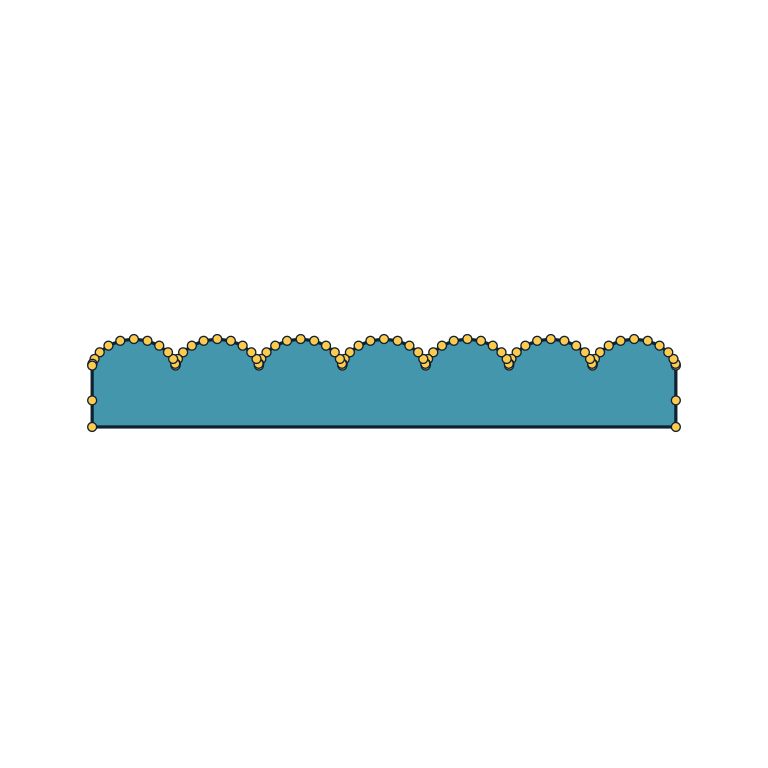
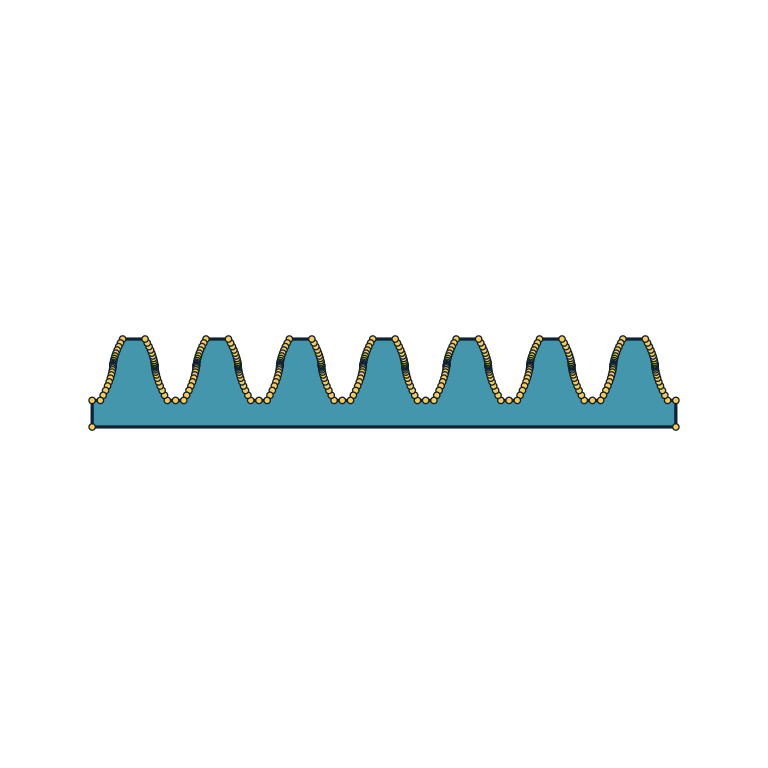
Correct cycloidal racks and Hershey orientation

Changed region(s): [[0.0938, 0.4375, 0.9062, 0.5625]]

diff --git a/src/curve/native.rs b/src/curve/native.rs
@@ -992,6 +992,14 @@ pub fn involute_rack(
 }
 
 /// Linear cycloidal rack region.
+///
+/// Each tooth joins an addendum cycloid above the pitch line to a dedendum
+/// cycloid below it on both sides. Each rolling radius is twice its
+/// corresponding standard height, so every sampled flank spans one sixth turn
+/// and meets a horizontal tip or root land.
+///
+/// Returns an empty region when the requested clearance would close the root
+/// land between neighboring teeth.
 pub fn cycloidal_rack(
     module: Real,
     teeth: usize,
@@ -1005,54 +1013,107 @@ pub fn cycloidal_rack(
     {
         return empty();
     }
-    let half = (Real::one() / Real::from(2_u8)).expect("two is nonzero");
-    let generating_radius = module.clone() * half.clone();
+    let two = Real::from(2_u8);
+    let three = Real::from(3_u8);
+    let four = Real::from(4_u8);
     let pitch = Real::pi() * module.clone();
-    let root = -(module.clone()
-        * (Real::from(5_u8) / Real::from(4_u8)).expect("four is nonzero")
-        + clearance);
-    let left = -half.clone() * pitch.clone();
-    let right = (Real::from(teeth as u64) - half.clone()) * pitch.clone();
-    let Some(lobe_capacity) = segments_per_flank.checked_add(1) else {
+    let half_pitch = (pitch.clone() / two.clone()).expect("two is nonzero");
+    let quarter_pitch = (pitch.clone() / four.clone()).expect("four is nonzero");
+    let dedendum =
+        module.clone() * (Real::from(5_u8) / four).expect("four is nonzero") + clearance;
+    let root = -dedendum.clone();
+    let flank_sweep = (Real::pi() / three).expect("three is nonzero");
+    let run_factor = two.clone() * (flank_sweep.clone() - flank_sweep.clone().sin());
+    let face_run = module.clone() * run_factor.clone();
+    let root_run = dedendum.clone() * run_factor;
+    if real_cmp(&face_run, &quarter_pitch) != Some(Ordering::Less)
+        || real_cmp(&root_run, &quarter_pitch) != Some(Ordering::Less)
+    {
+        return empty();
+    }
+
+    let Some(sample_capacity) = segments_per_flank.checked_add(1) else {
         return empty();
     };
-    let mut lobe = Vec::with_capacity(lobe_capacity);
+    let mut unit_flank = Vec::with_capacity(sample_capacity);
     for sample in 0..=segments_per_flank {
         let Some(fraction) = exact_ratio(sample, segments_per_flank) else {
             return empty();
         };
-        let theta = Real::tau() * fraction;
-        lobe.push([
-            generating_radius.clone() * (theta.clone() - theta.clone().sin()),
-            generating_radius.clone() * (Real::one() - theta.cos()),
+        let theta = flank_sweep.clone() * fraction;
+        unit_flank.push([
+            two.clone() * (theta.clone() - theta.clone().sin()),
+            two.clone() * (Real::one() - theta.cos()),
         ]);
     }
+
+    let Some(tooth_capacity) = segments_per_flank
+        .checked_mul(4)
+        .and_then(|count| count.checked_add(4))
+    else {
+        return empty();
+    };
+    let mut tooth_points = Vec::with_capacity(tooth_capacity);
+    tooth_points.push([-half_pitch.clone(), root.clone()]);
+    tooth_points.extend(unit_flank.iter().rev().map(|[run, rise]| {
+        [
+            -quarter_pitch.clone() - dedendum.clone() * run.clone(),
+            -(dedendum.clone() * rise.clone()),
+        ]
+    }));
+    tooth_points.extend(unit_flank.iter().skip(1).map(|[run, rise]| {
+        [
+            -quarter_pitch.clone() + module.clone() * run.clone(),
+            module.clone() * rise.clone(),
+        ]
+    }));
+    tooth_points.push([quarter_pitch.clone() - face_run, module.clone()]);
+    tooth_points.extend(
+        unit_flank[..segments_per_flank]
+            .iter()
+            .rev()
+            .map(|[run, rise]| {
+                [
+                    quarter_pitch.clone() - module.clone() * run.clone(),
+                    module.clone() * rise.clone(),
+                ]
+            }),
+    );
+    tooth_points.extend(unit_flank.iter().skip(1).map(|[run, rise]| {
+        [
+            quarter_pitch.clone() + dedendum.clone() * run.clone(),
+            -(dedendum.clone() * rise.clone()),
+        ]
+    }));
+    tooth_points.push([half_pitch.clone(), root.clone()]);
+
     let Some(top_capacity) = teeth
-        .checked_mul(segments_per_flank)
+        .checked_mul(tooth_points.len().saturating_sub(1))
         .and_then(|count| count.checked_add(1))
     else {
         return empty();
     };
     let mut top = Vec::with_capacity(top_capacity);
     for tooth in 0..teeth {
-        let tooth_left = (Real::from(tooth as u64) - half.clone()) * pitch.clone();
-        for (sample, point) in lobe.iter().enumerate() {
-            if tooth > 0 && sample == 0 {
+        let offset = Real::from(tooth as u64) * pitch.clone();
+        for (point_index, point) in tooth_points.iter().enumerate() {
+            if tooth > 0 && point_index == 0 {
                 continue;
             }
-            top.push([tooth_left.clone() + point[0].clone(), point[1].clone()]);
+            top.push([offset.clone() + point[0].clone(), point[1].clone()]);
         }
     }
-    let Some(point_capacity) = top.len().checked_add(4) else {
+
+    let Some(point_capacity) = top.len().checked_add(2) else {
         return empty();
     };
     let mut points = Vec::with_capacity(point_capacity);
     let backing = root.clone() - module;
-    points.push([left.clone(), backing.clone()]);
-    points.push([right.clone(), backing]);
-    points.push([right, root.clone()]);
+    let left = top.first().expect("validated rack has a left root")[0].clone();
+    let right = top.last().expect("validated rack has a right root")[0].clone();
+    points.push([left, backing.clone()]);
+    points.push([right, backing]);
     points.extend(top.into_iter().rev());
-    points.push([left, root]);
     region_from_ring(&points)
 }
 
@@ -2431,14 +2492,34 @@ pub fn truetype_text(text: &str, font_data: &[u8], scale: Real) -> CurveRegion2 
     super::truetype::text_region(text, font_data, scale)
 }
 
-/// Hershey stroke geometry as native open curve strings.
+/// Hershey stroke geometry as native open curve strings in Cartesian coordinates.
+///
+/// Hershey's source records use screen-style coordinates with positive Y
+/// pointing down. The returned geometry reflects that axis so positive Y
+/// points up, consistently with the rest of the planar curve API.
 #[cfg(feature = "hershey-text")]
 pub fn hershey_strings(
     text: &str,
     font: &hypercurve::hershey::Font<'_>,
     size: Real,
 ) -> Vec<CurveString2> {
+    let source_to_cartesian = hypercurve::Similarity2::try_from_real_affine(
+        Real::one(),
+        Real::zero(),
+        Real::zero(),
+        -Real::one(),
+        Real::zero(),
+        Real::zero(),
+    )
+    .expect("Y reflection is a nonsingular exact similarity");
     hypercurve::hershey::strings(text, font, size)
+        .into_iter()
+        .map(|string| {
+            string
+                .transform_similarity(&source_to_cartesian)
+                .expect("Hershey line strings remain valid under Y reflection")
+        })
+        .collect()
 }
 
 /// Convenience CSG and construction operations on native filled regions.
@@ -3063,6 +3144,47 @@ mod tests {
     }
 
     #[test]
+    fn cycloidal_rack_alternates_face_and_root_flanks() {
+        let teeth = 4;
+        let tip = Real::one();
+        let pitch_line = Real::zero();
+        let root = -(Real::from(5_u8) / Real::from(4_u8)).expect("four is nonzero");
+        let rack = cycloidal_rack(Real::one(), teeth, Real::zero(), 8);
+        let paths = match rack
+            .project_to_finite_curve_paths(&CurvePolicy::STRICT)
+            .expect("cycloidal rack edge projection")
+        {
+            Classification::Decided(paths) => paths,
+            Classification::Uncertain(reason) => {
+                panic!("cycloidal rack edge topology is uncertain: {reason:?}")
+            },
+        };
+        assert_eq!(paths.len(), 1, "rack must have one closed boundary");
+
+        let curves = paths[0].curves();
+        let vertices_at = |level: &Real| {
+            curves
+                .iter()
+                .filter(|curve| curve.start().y() == level)
+                .count()
+        };
+        assert_eq!(
+            vertices_at(&pitch_line),
+            teeth * 2,
+            "both sides of every tooth must cross the pitch line"
+        );
+        assert_eq!(
+            vertices_at(&tip),
+            teeth * 2,
+            "both addendum cycloids must reach every tooth tip"
+        );
+        assert!(
+            vertices_at(&root) >= teeth * 2,
+            "both dedendum cycloids must reach every tooth root"
+        );
+    }
+
+    #[test]
     fn gear_and_rack_profiles_form_one_hole_free_material_component() {
         let cycloidal = cycloidal_gear(
             Real::one(),
@@ -3363,5 +3485,20 @@ mod tests {
         assert!(!strings.is_empty());
         assert_eq!(crate::curve::hershey::fonts::ALL.len(), 32);
         assert!(strings.iter().all(|string| !string.segments().is_empty()));
+    }
+
+    #[cfg(feature = "hershey-text")]
+    #[test]
+    fn hershey_strings_convert_source_coordinates_to_y_up() {
+        let font = crate::curve::hershey::Font::new(&["MWRMNV RRMVV"], 'A');
+        let strings = hershey_strings("A", &font, Real::one());
+
+        assert_eq!(strings.len(), 2);
+        let left = &strings[0].segments()[0];
+        let right = &strings[1].segments()[0];
+        assert_eq!(left.start(), &Point2::new(Real::zero(), Real::from(5_u8)));
+        assert_eq!(left.end(), &Point2::new(Real::from(-4_i8), Real::from(-4_i8)));
+        assert_eq!(right.start(), &Point2::new(Real::zero(), Real::from(5_u8)));
+        assert_eq!(right.end(), &Point2::new(Real::from(4_u8), Real::from(-4_i8)));
     }
 }

diff --git a/examples/readme_renders.rs b/examples/readme_renders.rs
@@ -9,7 +9,7 @@ use csgrs::{
     solid::{self, SolidExt},
 };
 use hypercurve::{
-    Classification, CurvePath2, CurvePolicy, CurveRegion2, CurveString2,
+    BezierSplitFragment2, Classification, CurvePath2, CurvePolicy, CurveRegion2, CurveString2,
     FiniteProjectionOptions, FiniteRegionProfile2, Point2,
 };
 use hyperlattice::{Point3, Real, Vector3};
@@ -533,16 +533,42 @@ fn render_curve(name: &str, region: &CurveRegion2) {
         stroke_points(&mut image, &map, points, EDGE_WIDTH_2D, EDGE);
     }
 
-    let vertex_count = edge_paths.iter().map(|path| path.curves().len()).sum();
-    let radius = vertex_radius(vertex_count);
-    for path in &edge_paths {
-        // Mark exact curve-fragment junctions, not chordization samples.
-        for edge in path.curves() {
-            let vertex = (real_to_f64(edge.start().x()), real_to_f64(edge.start().y()));
-            draw_vertex_2d(&mut image, map.point(vertex), radius);
-        }
+    let vertices = exact_region_vertices(region);
+    let radius = vertex_radius(vertices.len());
+    for vertex in vertices {
+        let vertex = (real_to_f64(vertex.x()), real_to_f64(vertex.y()));
+        draw_vertex_2d(&mut image, map.point(vertex), radius);
     }
     save_image(name, &image);
+}
+
+fn exact_region_vertices(region: &CurveRegion2) -> Vec<Point2> {
+    if let Ok(Classification::Decided(native)) =
+        region.native_contours_fast_path(&CurvePolicy::STRICT)
+    {
+        return native
+            .material_contours()
+            .iter()
+            .chain(native.hole_contours())
+            .flat_map(|contour| contour.segments().iter())
+            .map(|segment| segment.start().clone())
+            .collect();
+    }
+
+    // Higher-order regions have no native line/arc view. Draw only represented
+    // endpoints retained by the exact boundary itself. Algebraic endpoint
+    // images deliberately remain unmarked because turning an isolating interval
+    // into a screen coordinate would invent a projected vertex.
+    region
+        .boundary_loops()
+        .iter()
+        .flat_map(|boundary| boundary.fragments())
+        .filter_map(|fragment| match fragment {
+            BezierSplitFragment2::Materialized { curve, .. } => Some(curve.start().clone()),
+            BezierSplitFragment2::AlgebraicEndpointImages { .. }
+            | BezierSplitFragment2::Unresolved { .. } => None,
+        })
+        .collect()
 }
 
 fn render_open_curves(name: &str, paths: &[CurvePath2], strings: &[CurveString2]) {
@@ -1174,4 +1200,46 @@ fn p3(x: f64, y: f64, z: f64) -> Point3 {
 
 fn v3(x: f64, y: f64, z: f64) -> Vector3 {
     Vector3::from_xyz(r(x), r(y), r(z))
+}
+
+#[cfg(test)]
+mod tests {
+    use super::*;
+    use hypercurve::{BulgeVertex2, Contour2};
+
+    #[test]
+    fn exact_region_vertices_ignore_arc_projection_fragments() {
+        let right = Point2::new(Real::one(), Real::zero());
+        let left = Point2::new(-Real::one(), Real::zero());
+        let contour = Contour2::from_bulge_vertices(&[
+            BulgeVertex2::new(right.clone(), Real::one()),
+            BulgeVertex2::new(left.clone(), Real::one()),
+        ])
+        .expect("two exact semicircles form a closed contour");
+        let region = CurveRegion2::try_from_native_material_contours(
+            vec![contour],
+            &CurvePolicy::STRICT,
+        )
+        .expect("promote exact circular contour");
+
+        let projected_paths = expect_decided(
+            region
+                .project_to_finite_curve_paths(&CurvePolicy::STRICT)
+                .expect("project circular boundary"),
+            "circular boundary projection",
+        );
+        let projected_vertices = projected_paths
+            .iter()
+            .map(|path| path.curves().len())
+            .sum::<usize>();
+        assert!(
+            projected_vertices > 2,
+            "arc-to-Bezier projection must expose the former false markers"
+        );
+
+        let vertices = exact_region_vertices(&region);
+        assert_eq!(vertices.len(), 2);
+        assert!(vertices.contains(&right));
+        assert!(vertices.contains(&left));
+    }
 }
